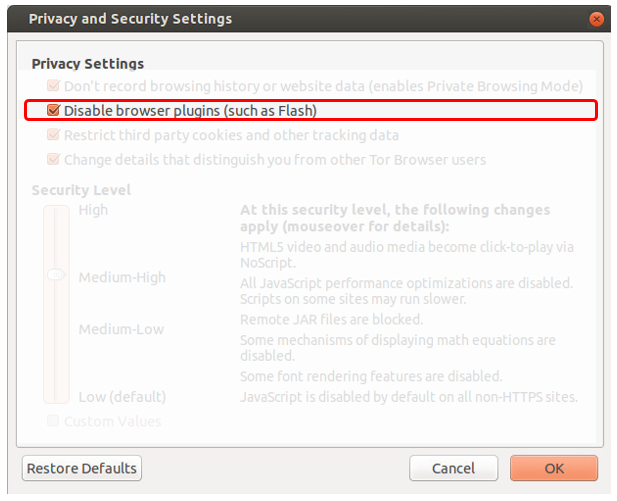
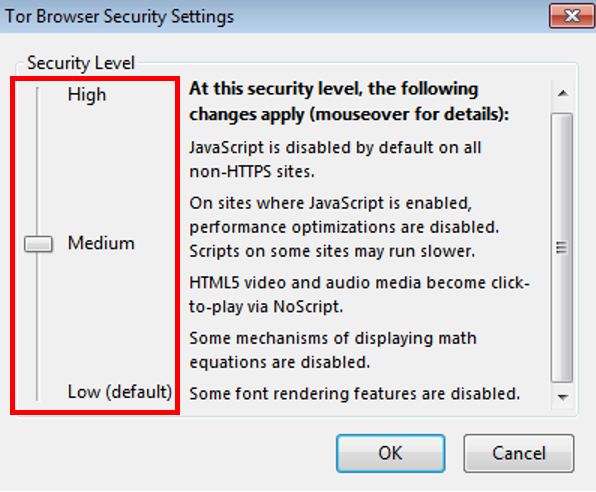
Updating the Tor page to take into account the changes to the security slider

Changed region(s): [[0.0, 0.0, 1.0, 0.9756], [0.0302, 0.9146, 0.2416, 0.9756]]

diff --git a/templates/tor.html b/templates/tor.html
@@ -85,43 +85,6 @@
         <div class="panel panel-default">
             <div class="panel-heading">
                 <h4 class="panel-title" style="font-size: 14px">
-                    <a data-toggle="collapse" href="#pluginsPanel"><strong>Plugins</strong></a>
-                    <span id="plugins"></span> <i id="pluginsRes" class="fa"></i>
-
-                    <button type="button" class="btn btn-primary btn-xs collapsed details" data-toggle="collapse" data-target="#pluginsPanel" style="float: right">
-                        Details
-                    </button>
-
-                </h4>
-            </div>
-            <div id="pluginsPanel" class="panel-collapse collapse">
-                <div class="panel-body">
-                    <div id="pluginsOk" style="display: none">
-                        No plugins were detected!
-                    </div>
-                    <div id="pluginsNotOk" style="display: none">
-                        Your Tor browser has some browser plugins enabled and it can harm your online privacy. It is recommended
-                        <a href="https://www.torproject.org/download/download.html.en#Warning">not to enable or install any plugins</a>
-                        because they can be used to reveal your real IP address or identifying information on your system.
-                        <br><br>
-                        Two steps are required to easily disable plugins in the Tor browser. First, click on "Privacy and Security
-                        settings..." in the Onion menu.
-                        <img src="{{ url_for('static', filename="images/settings1.png") }}" class="img-responsive" alt="Responsive image">
-                        Then, make sure that "Disable browser plugins (such as Flash)" option is checked.
-                        <img src="{{ url_for('static', filename="images/settings2.png") }}" class="img-responsive" alt="Responsive image">
-                    </div>
-                    <div id="pluginsNoJS" style="display: block">
-                        No JavaScript.
-                    </div>
-                </div>
-            </div>
-        </div>
-
-        <br><br>
-
-        <div class="panel panel-default">
-            <div class="panel-heading">
-                <h4 class="panel-title" style="font-size: 14px">
                     <a data-toggle="collapse" href="#sliderPanel"><strong>Security slider</strong></a>
                     <button type="button" class="btn btn-primary btn-xs collapsed details" data-toggle="collapse" data-target="#sliderPanel" style="float: right">
                         Details
@@ -134,21 +97,17 @@
                         We detected that the security level of your Tor browser is set on "Low".
                         Did you know that you can easily set the security level of your browser in the browser settings?<br>
 
-                        Open the Onion menu located on the left of the URL address bar and click on "Privacy and Security settings...".
+                        Open the Onion menu located on the left of the URL address bar and click on "Security settings...".
                         <img src="{{ url_for('static', filename="images/settings1.png") }}" class="img-responsive" alt="Responsive image">
 
                         Then, you can see the Security slider which provides a user-friendly interface to set your own security level.
-                        <img src="{{ url_for('static', filename="images/settings3.png") }}" class="img-responsive" alt="Responsive image">
+                        <img src="{{ url_for('static', filename="images/settings2.png") }}" class="img-responsive" alt="Responsive image">
 
                         You can easily see the trade off between functionality and security. Gradually increasing the security level will
                         disable more and more features reducing the vulnerability surface of your browser.
                     </div>
-                    <div id="sliderMediumLow" style="display: none">
-                        We detected that the security level of your Tor browser is set on "Medium-Low".
-                        Why not try a higher security level to increase your online privacy?
-                    </div>
-                    <div id="sliderMediumHigh" style="display: none">
-                        We detected that the security level of your Tor browser is set on "Medium-High".
+                    <div id="sliderMedium" style="display: none">
+                        We detected that the security level of your Tor browser is set on "Medium".
                         Why not try a higher security level to increase your online privacy?
                     </div>
                     <div id="sliderHigh" style="display: none">
@@ -167,9 +126,6 @@
     <svg id="svg" xmlns="http://www.w3.org/2000/svg" height="100" width="100" style="display: none">
 	    <circle cx="50" cy="50" r="40" stroke="black" stroke-width="3" fill="red"></circle>
     </svg>
-
-    <!-- URL to be changed for the production version -->
-    <script type="text/javascript" src="{{ url_for('static', filename="js/sliderMediumHigh.js", _scheme='http', _external=True) }}"></script>
 
     <!-- Load the acceptable and slider JS script -->
     <script type="text/javascript" src="{{ url_for('static', filename="js/acceptable.js") }}"></script>

diff --git a/static/js/slider.js b/static/js/slider.js
@@ -14,9 +14,6 @@ div.innerHTML = "<math><mfrac><mi>xx</mi><mi>yy</mi></mfrac></math>";
 document.body.appendChild(div);
 var hasMathML = (div.offsetHeight > div.offsetWidth);
 
-//Medium-High level detection: blocking of external scripts provided through HTTP
-var hasHTTPBlocking = (typeof blockHTTP === "undefined");
-
 //High level detection: support of SVG elements
 var hasSVG = (document.getElementById("svg").height == undefined);
 
@@ -24,17 +21,12 @@ if(hasMathML){
     //Low level detected
     document.getElementById("sliderLow").style.display = "block";
 } else {
-    if(!hasHTTPBlocking){
-        //Medium-Low level detected
-        document.getElementById("sliderMediumLow").style.display = "block";
+    if(!hasSVG){
+        //Medium level detected
+        document.getElementById("sliderMedium").style.display = "block";
     } else {
-        if(!hasSVG){
-            //Medium-High level detected
-            document.getElementById("sliderMediumHigh").style.display = "block";
-        } else {
-            //High level detected
-            document.getElementById("sliderHigh").style.display = "block";
-        }
+        //High level detected
+        document.getElementById("sliderHigh").style.display = "block";
     }
 }
 
